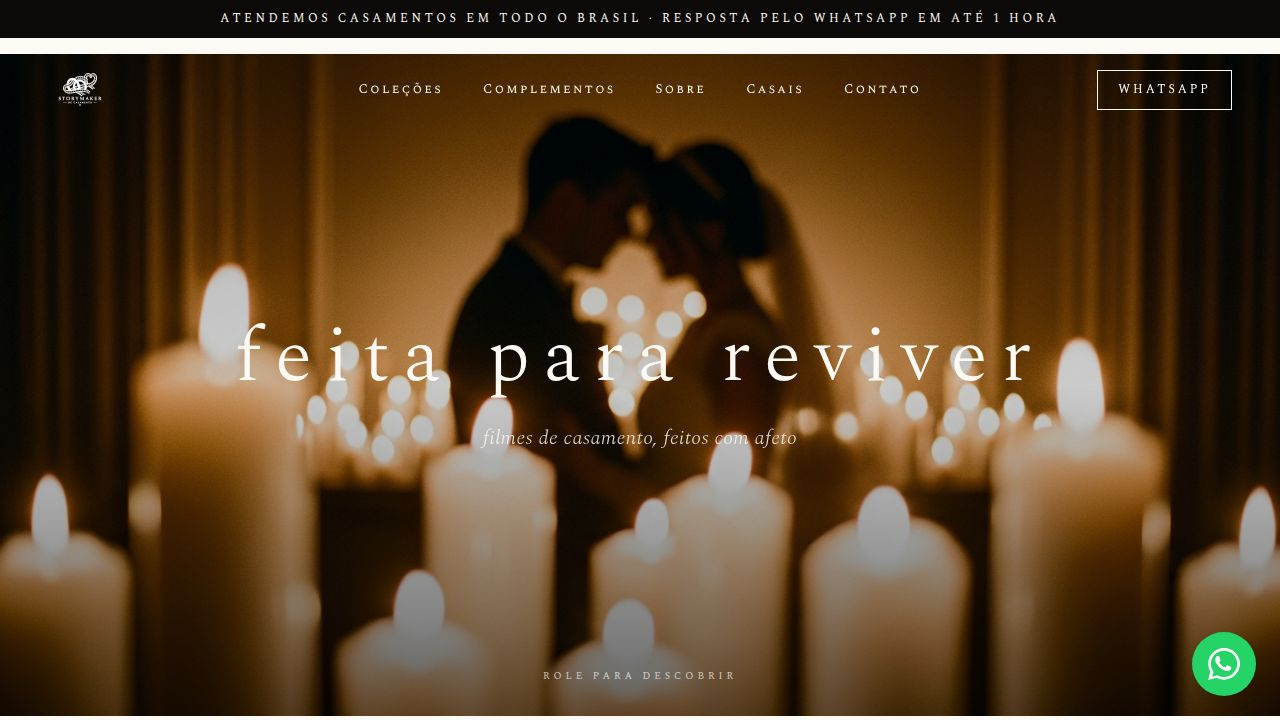
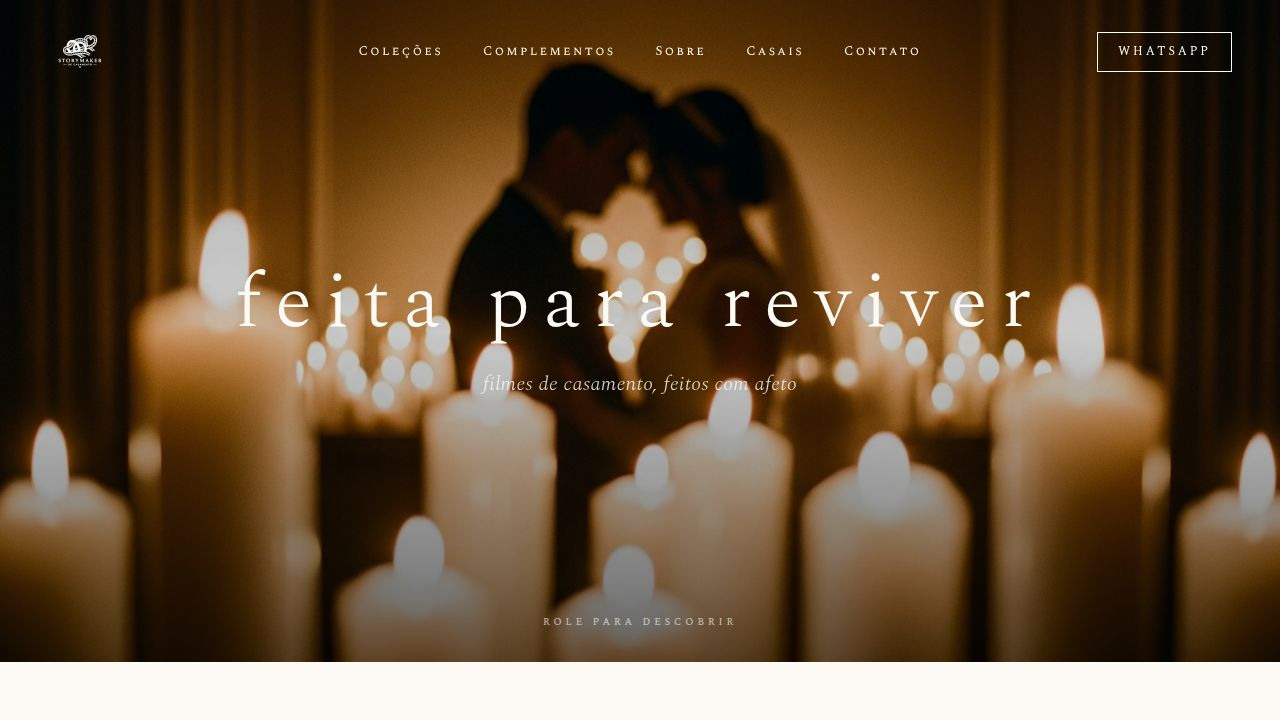
Optimize website performance and user experience for launch
Update metadata, improve image and video loading, and enhance the 404 page for a polished user experience.

Replit-Commit-Author: Agent
Replit-Commit-Session-Id: 29212a02-7943-4e20-92ff-2854b4e63121
Replit-Commit-Checkpoint-Type: full_checkpoint
Replit-Commit-Event-Id: ff3e3844-5cd6-4755-9f4e-cc949a3d3ba4
Replit-Commit-Screenshot-Url: https://storage.googleapis.com/screenshot-production-us-central1/edd588f1-44c4-46a9-9ece-633be6032f3a/29212a02-7943-4e20-92ff-2854b4e63121/iIRxE7w
Replit-Helium-Checkpoint-Created: true

diff --git a/artifacts/storymaker/src/pages/not-found.tsx b/artifacts/storymaker/src/pages/not-found.tsx
@@ -1,21 +1,49 @@
-import { Card, CardContent } from "@/components/ui/card";
-import { AlertCircle } from "lucide-react";
+import logoImage from "@assets/Logo_StoryMaker_Casamento_Sem_fundo_1777242203099.png";
+
+const WHATSAPP_LINK = "https://wa.me/5512982355909";
+const WHATSAPP_TEXT =
+  "Olá! Vim pelo site e gostaria de conversar sobre o filme do meu casamento.";
+const WHATSAPP_HREF = `${WHATSAPP_LINK}?text=${encodeURIComponent(WHATSAPP_TEXT)}`;
 
 export default function NotFound() {
   return (
-    <div className="min-h-screen w-full flex items-center justify-center bg-gray-50">
-      <Card className="w-full max-w-md mx-4">
-        <CardContent className="pt-6">
-          <div className="flex mb-4 gap-2">
-            <AlertCircle className="h-8 w-8 text-red-500" />
-            <h1 className="text-2xl font-bold text-gray-900">404 Page Not Found</h1>
-          </div>
+    <div className="min-h-screen w-full flex flex-col items-center justify-center bg-[#fdfaf5] text-[#1a1410] px-6 py-16 text-center">
+      <a href="/" aria-label="Voltar para a página inicial" className="mb-10">
+        <img
+          src={logoImage}
+          alt="Storymaker de Casamento"
+          className="h-16 md:h-20 w-auto"
+        />
+      </a>
 
-          <p className="mt-4 text-sm text-gray-600">
-            Did you forget to add the page to the router?
-          </p>
-        </CardContent>
-      </Card>
+      <p className="smallcaps text-[12px] tracking-[0.3em] text-[#8a6a2e] mb-4">
+        404
+      </p>
+      <h1 className="text-[clamp(1.8rem,4vw,2.8rem)] font-light leading-tight max-w-[640px]">
+        Esta página <span className="italic">não existe</span> — mas a sua
+        história ainda pode ser contada.
+      </h1>
+      <p className="mt-6 max-w-[520px] text-[16px] md:text-[17px] leading-[1.85] font-light text-[#3b322a]">
+        O endereço que você procurava não foi encontrado. Volte para a página
+        inicial ou fale com a gente diretamente no WhatsApp.
+      </p>
+
+      <div className="mt-10 flex flex-col sm:flex-row items-center gap-4">
+        <a
+          href="/"
+          className="smallcaps text-[12px] tracking-[0.3em] border border-[#1a1410] text-[#1a1410] hover:bg-[#1a1410] hover:text-[#fdfaf5] transition-colors px-7 py-3.5"
+        >
+          voltar para o início
+        </a>
+        <a
+          href={WHATSAPP_HREF}
+          target="_blank"
+          rel="noopener noreferrer"
+          className="smallcaps text-[12px] tracking-[0.3em] border border-[#1a1410] bg-[#1a1410] text-[#fdfaf5] hover:bg-transparent hover:text-[#1a1410] transition-colors px-7 py-3.5"
+        >
+          falar no WhatsApp
+        </a>
+      </div>
     </div>
   );
 }

diff --git a/artifacts/storymaker/index.html b/artifacts/storymaker/index.html
@@ -3,11 +3,34 @@
   <head>
     <meta charset="UTF-8" />
     <meta name="viewport" content="width=device-width, initial-scale=1.0" />
-    <title>Storymaker de Casamento</title>
-    <meta name="description" content="Storymaker de Casamento — filmes cinematográficos para celebrações inesquecíveis." />
+    <meta name="theme-color" content="#1a1410" />
+
+    <title>Storymaker de Casamento — filmes autorais para celebrações inesquecíveis</title>
+    <meta
+      name="description"
+      content="Filmes de casamento cinematográficos, com olhar autoral e atendimento direto com o diretor. Quatro coleções a partir de R$ 1.600. Atendemos todo o Brasil."
+    />
+
+    <meta property="og:type" content="website" />
+    <meta property="og:locale" content="pt_BR" />
+    <meta property="og:title" content="Storymaker de Casamento — filmes autorais" />
+    <meta
+      property="og:description"
+      content="Filmes de casamento cinematográficos, com olhar autoral e atendimento direto com o diretor. Atendemos todo o Brasil."
+    />
+    <meta property="og:image" content="/opengraph.jpg" />
+
+    <meta name="twitter:card" content="summary_large_image" />
+    <meta name="twitter:title" content="Storymaker de Casamento" />
+    <meta
+      name="twitter:description"
+      content="Filmes de casamento cinematográficos, com olhar autoral e atendimento direto com o diretor."
+    />
+    <meta name="twitter:image" content="/opengraph.jpg" />
+
     <link rel="icon" type="image/svg+xml" href="/favicon.svg" />
-    <link rel="preconnect" href="https://fonts.googleapis.com">
-    <link rel="preconnect" href="https://fonts.gstatic.com" crossorigin>
+    <link rel="preconnect" href="https://fonts.googleapis.com" />
+    <link rel="preconnect" href="https://fonts.gstatic.com" crossorigin />
   </head>
   <body>
     <div id="root"></div>

diff --git a/artifacts/storymaker/src/pages/home.tsx b/artifacts/storymaker/src/pages/home.tsx
@@ -16,7 +16,6 @@ import vowsImage from "@/assets/images/vows.png";
 import laceImage from "@/assets/images/lace.png";
 import details1 from "@/assets/images/details-1.png";
 import details2 from "@/assets/images/details-2.png";
-import heroAlt from "@/assets/images/hero.png";
 
 const WHATSAPP_LINK = "https://wa.me/5512982355909";
 const WHATSAPP_TEXT =
@@ -208,7 +207,8 @@ export default function Home() {
               href={WHATSAPP_HREF}
               target="_blank"
               rel="noopener noreferrer"
-              className={`hidden md:inline-block text-[12px] tracking-[0.25em] uppercase border px-5 py-2.5 transition-colors ${
+              aria-label="Falar no WhatsApp"
+              className={`smallcaps text-[10px] md:text-[12px] tracking-[0.22em] md:tracking-[0.25em] uppercase border px-3.5 md:px-5 py-2 md:py-2.5 transition-colors ${
                 scrolled
                   ? "border-[#1a1410] text-[#1a1410] hover:bg-[#1a1410] hover:text-[#fdfaf5]"
                   : "border-[#fdfaf5] text-[#fdfaf5] hover:bg-[#fdfaf5] hover:text-[#1a1410]"
@@ -225,6 +225,7 @@ export default function Home() {
         <img
           src={heroSilhouettes}
           alt="Silhueta de noivos entre velas"
+          fetchPriority="high"
           className="absolute inset-0 w-full h-full object-cover"
         />
         <div className="absolute inset-0 bg-gradient-to-b from-black/30 via-black/20 to-black/60" />
@@ -325,13 +326,14 @@ export default function Home() {
                       muted
                       loop
                       playsInline
-                      preload="metadata"
+                      preload="none"
                       className="w-full h-full object-cover transition-transform duration-700 group-hover:scale-105"
                     />
                   ) : (
                     <img
                       src={f.poster}
                       alt={f.couple}
+                      loading="lazy"
                       className="w-full h-full object-cover transition-transform duration-700 group-hover:scale-105"
                     />
                   )}
@@ -379,12 +381,13 @@ export default function Home() {
                 <img
                   src={pkg.image}
                   alt={pkg.name}
+                  loading="lazy"
                   className="absolute inset-0 w-full h-full object-cover transition-transform duration-[1200ms] group-hover:scale-105"
                 />
                 <div className="absolute inset-0 bg-gradient-to-t from-black/80 via-black/30 to-black/10" />
                 {pkg.featured && (
                   <div className="absolute top-6 left-6 smallcaps text-[10px] tracking-[0.3em] text-[#fdfaf5] border border-[#fdfaf5]/60 px-3 py-1.5">
-                    mais escolhido
+                    coleção completa
                   </div>
                 )}
 
@@ -423,6 +426,7 @@ export default function Home() {
               <img
                 src={champagneImage}
                 alt="Detalhes do casamento"
+                loading="lazy"
                 className="w-full h-full object-cover"
               />
             </div>
@@ -455,6 +459,7 @@ export default function Home() {
                   <img
                     src={a.image}
                     alt={a.name}
+                    loading="lazy"
                     className="w-full h-full object-cover transition-transform duration-700 group-hover:scale-105"
                   />
                 </div>
@@ -479,6 +484,7 @@ export default function Home() {
             <img
               src={ownerImage}
               alt="Fotógrafo e diretor da Storymaker"
+              loading="lazy"
               className="w-full h-full object-cover"
             />
           </div>
@@ -517,11 +523,12 @@ export default function Home() {
               <img
                 src={logoImage}
                 alt="Storymaker"
+                loading="lazy"
                 className="h-20 w-auto brightness-0 invert"
               />
               <p className="mt-6 text-[14px] leading-[1.8] font-light text-[#fdfaf5]/70">
-                Filmes de casamento autorais. Captação em 4K, edição
-                cinematográfica e atendimento direto com o diretor.
+                Filmes de casamento autorais, com olhar cinematográfico e
+                atendimento direto com o diretor.
               </p>
             </div>
 
@@ -570,17 +577,7 @@ export default function Home() {
                     WhatsApp — fale com o diretor
                   </a>
                 </li>
-                <li>
-                  <a
-                    href="https://instagram.com/storymakerdecasamento"
-                    target="_blank"
-                    rel="noopener noreferrer"
-                    className="hover:text-[#d8b87a] transition-colors"
-                  >
-                    @storymakerdecasamento
-                  </a>
-                </li>
-                <li className="text-[#fdfaf5]/70">[email redacted]</li>
+                <li className="text-[#fdfaf5]/70">[phone redacted]</li>
                 <li className="text-[#fdfaf5]/70">Atendemos todo o Brasil</li>
               </ul>
             </div>

diff --git a/replit.md b/replit.md
@@ -28,6 +28,6 @@ See the `pnpm-workspace` skill for workspace structure, TypeScript setup, and pa
 
 ## Artifacts
 
-- **`artifacts/storymaker`** (web) — Single-page Brazilian Portuguese landing page for "Storymaker de Casamento", a high-end wedding videography brand. Layout/structure modeled on reisman.com.br (announcement topbar → sticky header that switches from white-on-hero to dark-on-cream after scroll → full-bleed hero with letter-spaced lowercase serif "feita para reviver" → centered intro → horizontally-scrollable "Casamentos que filmamos" carousel → 2x2 packages grid with featured Premium spanning two columns → complementos intro + 4-card add-ons grid → "make it Unforgettable" testimonials grid → sobre/photographer section → 6-column infobar → dark footer). Typography is Spectral + Spectral SC small caps (Reisman font), with Pinyon Script kept available as a script accent. Coleções: Essencial R$1.600, Intermediário I R$2.000, Intermediário II R$2.390, Premium R$2.790 (featured). Complementos: votos gravados, stories ao vivo, trends/reels, vídeo carta. Owner photo, full-color brand logo (`Logo_StoryMaker_Casamento_Sem_fundo_*.png`, includes the "STORYMAKER · DE CASAMENTO" wordmark + interlocked gold rings + film-strip heart), the real Julio & Thalia couple photo, and four Julio & Thalia wedding videos (`film_julio_thalia_1.mp4`–`film_julio_thalia_4.mp4`, H.264/AAC) live in `attached_assets/`; the rest of the cinematic image set lives in `src/assets/images/`. Featured films carousel renders the four videos as autoplaying, muted, looping `<video>` cards (each labeled with a different scene of the same wedding) using an IntersectionObserver to play/pause as they enter and leave the viewport, with the Julio & Thalia photo as their poster fallback. The brand logo is shown in natural color on the scrolled cream header and inverted to a white silhouette over the dark hero header and the dark footer. WhatsApp link is `https://wa.me/[phone redacted]` ([phone redacted]) with a pre-filled message. No backend. The design is layout-only inspiration — no Reisman text, images, branding, or product copy is used.
+- **`artifacts/storymaker`** (web) — Single-page Brazilian Portuguese landing page for "Storymaker de Casamento", a high-end wedding videography brand. Layout/structure modeled on reisman.com.br: sticky header that switches from white-on-hero to dark-on-cream after scroll → full-bleed hero (candle silhouettes) with letter-spaced lowercase serif "feita para reviver" → centered intro ("Made with love by Storymaker") → horizontally-scrollable "uma pequena amostra do nosso olhar" featured-films carousel → 2x2 packages grid → complementos intro + 4-card add-ons grid → sobre/photographer section → dark footer. (No top announcement bar, no testimonials grid, no 6-column infobar — those were intentionally removed because the studio currently has only one wedding filmed and we keep all copy truthful and premium.) Typography is Spectral + Spectral SC small caps. Coleções: Essencial R$1.600, Intermediário I R$2.000, Intermediário II R$2.390, Premium R$2.790 (featured "mais escolhido"). Complementos: votos gravados, stories ao vivo, trends/reels, vídeo carta. Owner photo, full-color brand logo (`Logo_StoryMaker_Casamento_Sem_fundo_*.png`, includes the "STORYMAKER · DE CASAMENTO" wordmark + interlocked gold rings + film-strip heart), the real Julio & Thalia couple photo, and four Julio & Thalia wedding videos (`film_julio_thalia_1.mp4`–`film_julio_thalia_4.mp4`, H.264/AAC) live in `attached_assets/`; the rest of the cinematic image set lives in `src/assets/images/`. Featured films carousel renders the four videos as autoplaying, muted, looping `<video>` cards (each labeled with a different scene of the same wedding) using an IntersectionObserver to play/pause as they enter/leave the viewport, with the Julio & Thalia photo as their poster fallback. The brand logo is shown in natural color on the scrolled cream header and inverted to a white silhouette over the dark hero header and the dark footer. WhatsApp link is `https://wa.me/[phone redacted]` ([phone redacted]) with a pre-filled message; that is the only contact channel exposed (no placeholder email/Instagram). Page also has Open Graph + Twitter Card meta tags and a brand-colored SVG favicon. No backend. The design is layout-only inspiration — no Reisman text, images, branding, or product copy is used.
 - **`artifacts/api-server`** — Express API scaffold (unused by storymaker).
 - **`artifacts/mockup-sandbox`** — Component preview sandbox.